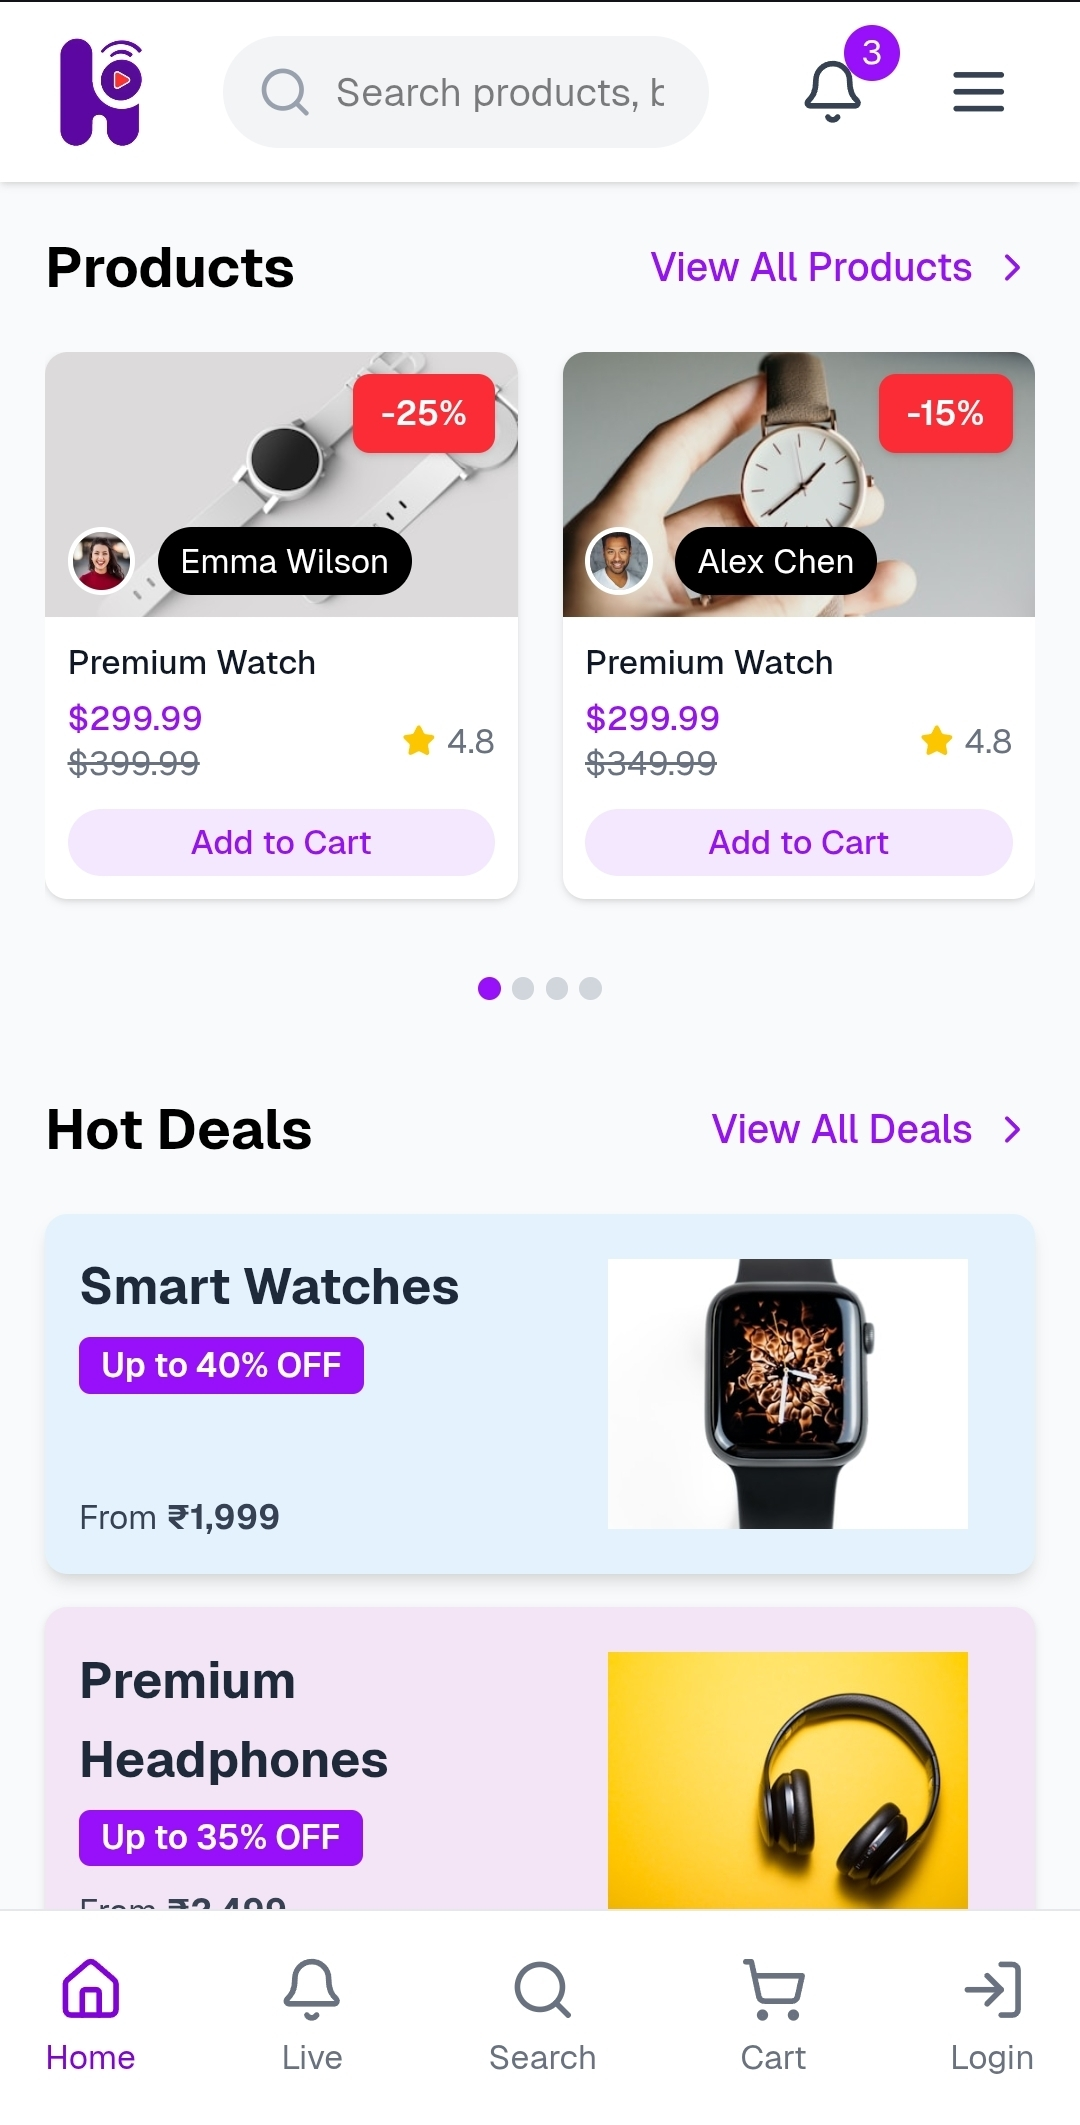
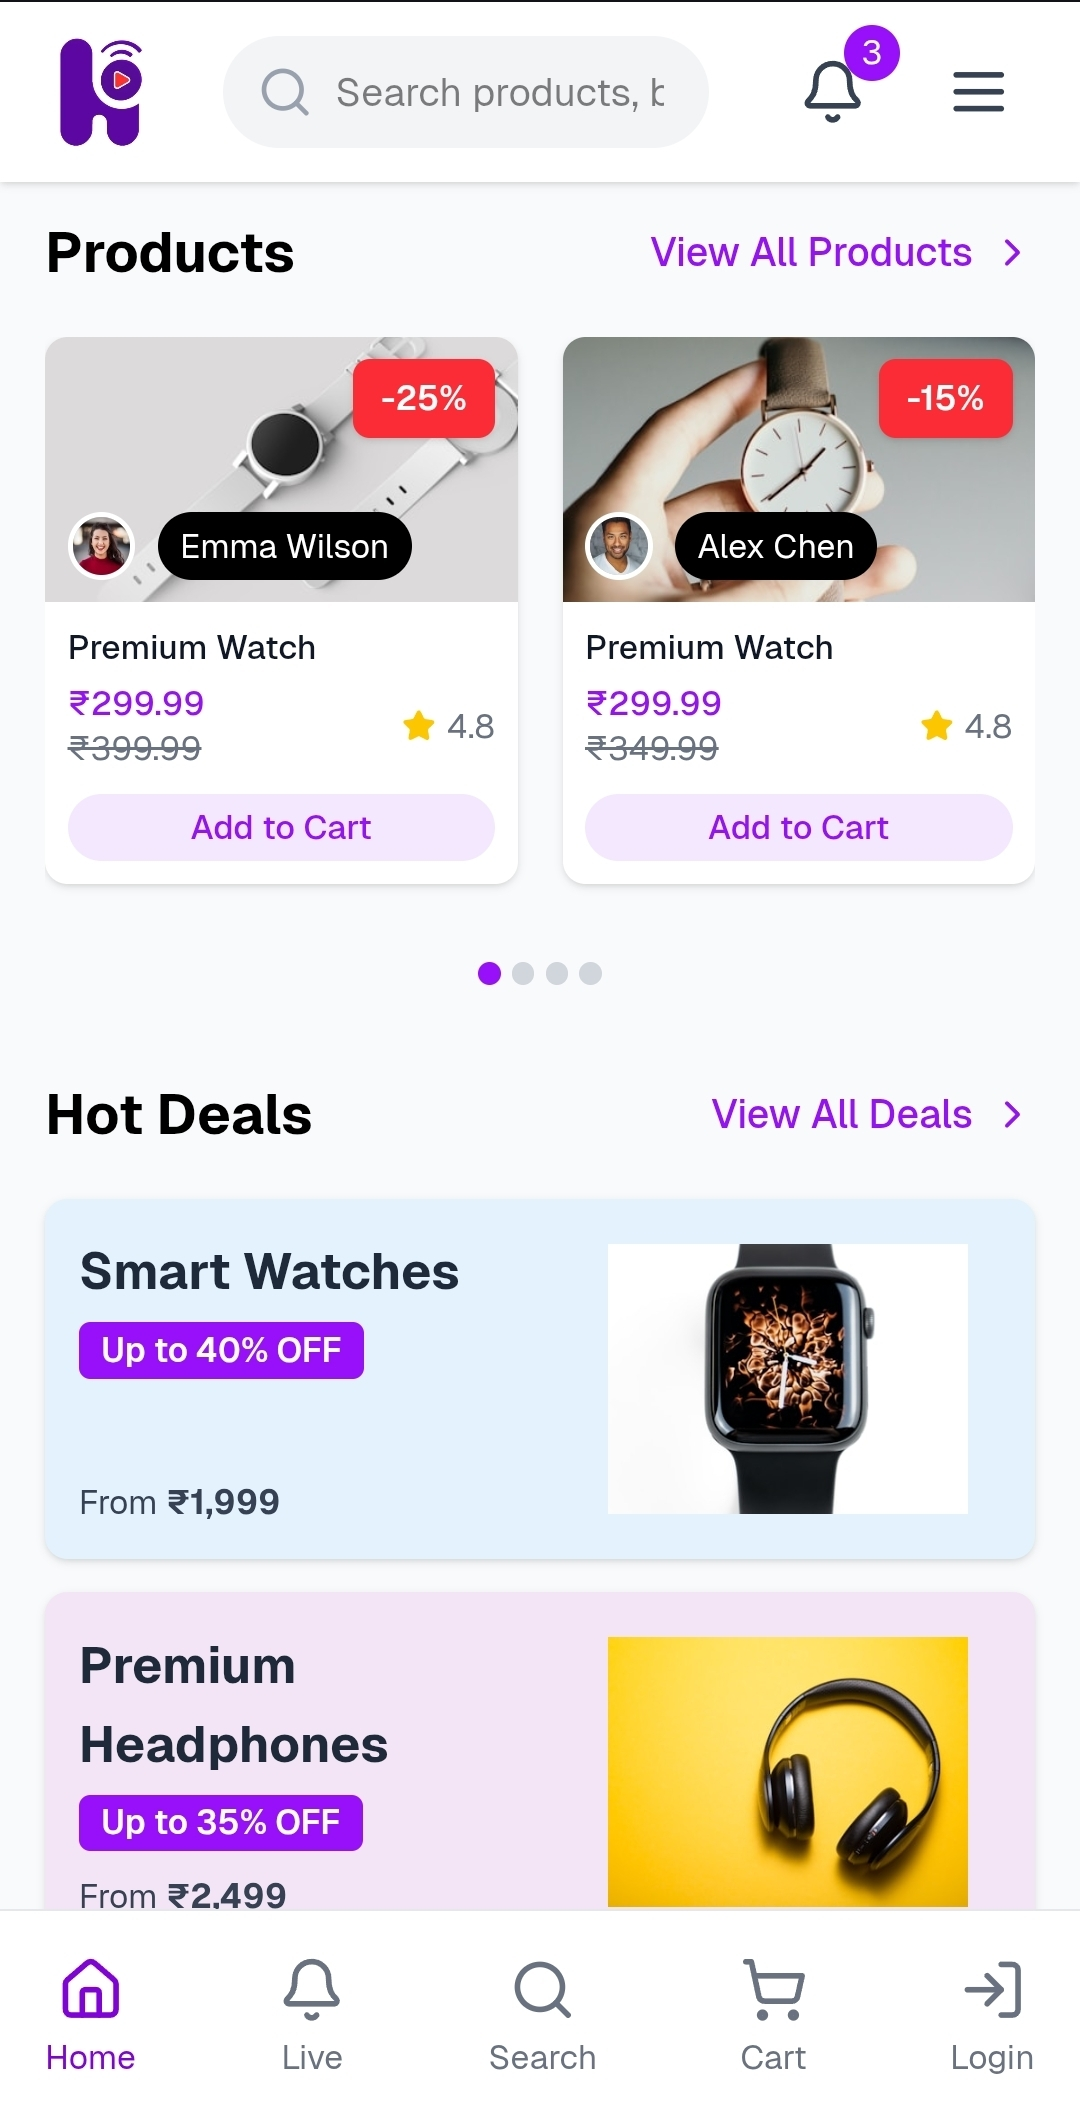
updates

diff --git a/halohunt_web/src/app/checkout/page.js b/halohunt_web/src/app/checkout/page.js
@@ -68,7 +68,7 @@ const CartItem = ({ item }) => {
       <div className="flex-1 min-w-0">
         <h3 className="text-sm font-medium text-gray-900 truncate">{item.name}</h3>
         <div className="mt-2 flex items-center justify-between">
-          <span className="text-sm font-medium text-purple-600">${item.price}</span>
+          <span className="text-sm font-medium text-purple-600">₹{item.price}</span>
           <span className="text-sm text-gray-500">Qty: {item.quantity}</span>
         </div>
       </div>
@@ -226,7 +226,7 @@ export default function CheckoutPage() {
                   <Package className="w-5 h-5 text-purple-600" />
                   <h2 className="font-medium">Order Summary ({cartItems.length} items)</h2>
                 </div>
-                <span className="text-sm font-medium text-purple-600">${subtotal.toFixed(2)}</span>
+                <span className="text-sm font-medium text-purple-600">₹{subtotal.toFixed(2)}</span>
               </div>
               <div className="p-6">
                 <div className="divide-y divide-gray-200">
@@ -271,31 +271,31 @@ export default function CheckoutPage() {
               <div className="space-y-3 text-sm">
                 <div className="flex justify-between">
                   <span className="text-gray-500">Subtotal</span>
-                  <span>${subtotal.toFixed(2)}</span>
+                  <span>₹{subtotal.toFixed(2)}</span>
                 </div>
                 <div className="flex justify-between">
                   <span className="text-gray-500">Shipping</span>
-                  <span>{shipping === 0 ? 'Free' : `$${shipping.toFixed(2)}`}</span>
+                  <span>{shipping === 0 ? 'Free' : `₹${shipping.toFixed(2)}`}</span>
                 </div>
                 <div className="flex justify-between">
                   <span className="text-gray-500">GST (18%)</span>
-                  <span>${gst.toFixed(2)}</span>
+                  <span>₹{gst.toFixed(2)}</span>
                 </div>
                 {codCharges > 0 && (
                   <div className="flex justify-between text-orange-600">
                     <span>COD Charges</span>
-                    <span>+${codCharges.toFixed(2)}</span>
+                    <span>+₹{codCharges.toFixed(2)}</span>
                   </div>
                 )}
                 {payNowDiscount < 0 && (
                   <div className="flex justify-between text-green-600">
                     <span>Pay Now Discount</span>
-                    <span>${payNowDiscount.toFixed(2)}</span>
+                    <span>₹{payNowDiscount.toFixed(2)}</span>
                   </div>
                 )}
                 <div className="border-t border-gray-200 pt-3 flex justify-between font-medium">
                   <span>Total</span>
-                  <span>${total.toFixed(2)}</span>
+                  <span>₹{total.toFixed(2)}</span>
                 </div>
               </div>
 

diff --git a/halohunt_web/src/app/landing/page.js b/halohunt_web/src/app/landing/page.js
@@ -6,7 +6,7 @@ const LiveShoppingUI = () => {
     {
       id: 1,
       name: "Premium Watch",
-      price: "$299.99",
+      price: "₹299.99",
       seller: "John Smith",
       rating: 4.8,
       image: "https://images.unsplash.com/photo-1523275335684-37898b6baf30?w=400&h=300&fit=crop&crop=center",
@@ -15,7 +15,7 @@ const LiveShoppingUI = () => {
     {
       id: 2,
       name: "Premium Watch",
-      price: "$299.99",
+      price: "₹299.99",
       seller: "John Smith",
       rating: 4.8,
       image: "https://images.unsplash.com/photo-1524592094714-0f0654e20314?w=400&h=300&fit=crop&crop=center",
@@ -24,7 +24,7 @@ const LiveShoppingUI = () => {
     {
       id: 3,
       name: "Premium Watch",
-      price: "$299.99",
+      price: "₹299.99",
       seller: "John Smith",
       rating: 4.8,
       image: "https://images.unsplash.com/photo-1606800052052-a08af7148866?w=400&h=300&fit=crop&crop=center",
@@ -33,7 +33,7 @@ const LiveShoppingUI = () => {
     {
       id: 4,
       name: "Premium Watch",
-      price: "$299.99",
+      price: "₹299.99",
       seller: "John Smith",
       rating: 4.8,
       image: "https://images.unsplash.com/photo-1578662996442-48f60103fc96?w=400&h=300&fit=crop&crop=center",

diff --git a/halohunt_web/src/app/search/page.js b/halohunt_web/src/app/search/page.js
@@ -203,7 +203,7 @@ const SearchPage = () => {
     {
       id: 1,
       name: "Premium Watch",
-      price: "$299.99",
+      price: "₹299.99",
       seller: "John Smith",
       rating: 4.8,
       image: "https://images.unsplash.com/photo-1523275335684-37898b6baf30?w=400&h=300&fit=crop&crop=center",
@@ -216,7 +216,7 @@ const SearchPage = () => {
     {
       id: 2,
       name: "Premium Watch",
-      price: "$299.99",
+      price: "₹299.99",
       seller: "John Smith",
       rating: 4.8,
       image: "https://images.unsplash.com/photo-1524592094714-0f0654e20314?w=400&h=300&fit=crop&crop=center",
@@ -229,7 +229,7 @@ const SearchPage = () => {
     {
       id: 3,
       name: "Premium Watch",
-      price: "$299.99",
+      price: "₹299.99",
       seller: "John Smith",
       rating: 4.8,
       image: "https://images.unsplash.com/photo-1606800052052-a08af7148866?w=400&h=300&fit=crop&crop=center",
@@ -242,7 +242,7 @@ const SearchPage = () => {
     {
       id: 4,
       name: "Premium Watch",
-      price: "$299.99",
+      price: "₹299.99",
       seller: "John Smith",
       rating: 4.8,
       image: "https://images.unsplash.com/photo-1578662996442-48f60103fc96?w=400&h=300&fit=crop&crop=center",

diff --git a/halohunt_web/src/app/page.js b/halohunt_web/src/app/page.js
@@ -70,8 +70,8 @@ const LiveShoppingUI = () => {
     {
       id: 1,
       name: "Premium Watch",
-      price: "$299.99",
-      originalPrice: "$399.99",
+      price: "₹299.99",
+      originalPrice: "₹399.99",
       discount: "25%",
       seller: "John Smith",
       rating: 4.8,
@@ -85,8 +85,8 @@ const LiveShoppingUI = () => {
     {
       id: 2,
       name: "Premium Watch",
-      price: "$299.99",
-      originalPrice: "$349.99",
+      price: "₹299.99",
+      originalPrice: "₹349.99",
       discount: "15%",
       seller: "John Smith",
       rating: 4.8,
@@ -100,8 +100,8 @@ const LiveShoppingUI = () => {
     {
       id: 3,
       name: "Premium Watch",
-      price: "$299.99",
-      originalPrice: "$399.99",
+      price: "₹299.99",
+      originalPrice: "₹399.99",
       discount: "25%",
       seller: "John Smith",
       rating: 4.8,
@@ -115,8 +115,8 @@ const LiveShoppingUI = () => {
     {
       id: 4,
       name: "Premium Watch",
-      price: "$299.99",
-      originalPrice: "$349.99",
+      price: "₹299.99",
+      originalPrice: "₹349.99",
       discount: "15%",
       seller: "John Smith",
       rating: 4.8,

diff --git a/halohunt_web/src/app/live/view/[id]/page.js b/halohunt_web/src/app/live/view/[id]/page.js
@@ -583,7 +583,7 @@ export default function LiveStreamPage() {
                     <div>
                       <p className="text-white text-xs font-medium">{product.name}</p>
                       <p className="text-purple-300 text-xs font-bold">
-                        ${discountedPrice ? discountedPrice.toFixed(2) : (product.price?.toFixed(2) || '0.00')}
+                        ₹{discountedPrice ? discountedPrice.toFixed(2) : (product.price?.toFixed(2) || '0.00')}
                       </p>
                     </div>
                   </div>
@@ -664,7 +664,7 @@ export default function LiveStreamPage() {
                         <div>
                           <p className="text-white text-xs font-medium">{product.name}</p>
                           <p className="text-purple-300 text-xs font-bold">
-                            ${discountedPrice ? discountedPrice.toFixed(2) : (product.price?.toFixed(2) || '0.00')}
+                            ₹{discountedPrice ? discountedPrice.toFixed(2) : (product.price?.toFixed(2) || '0.00')}
                           </p>
                         </div>
                       </div>

diff --git a/halohunt_web/src/app/live/host/[id]/page.js b/halohunt_web/src/app/live/host/[id]/page.js
@@ -798,7 +798,7 @@ export default function HostPage() {
                     <div>
                       <p className="text-white text-xs font-medium">{product.name}</p>
                       <p className="text-purple-300 text-xs font-bold">
-                        ${discountedPrice ? discountedPrice.toFixed(2) : (product.price?.toFixed(2) || '0.00')}
+                        ₹{discountedPrice ? discountedPrice.toFixed(2) : (product.price?.toFixed(2) || '0.00')}
                       </p>
                     </div>
                   </div>
@@ -897,7 +897,7 @@ export default function HostPage() {
                         <div>
                           <p className="text-white text-xs font-medium">{product.name}</p>
                           <p className="text-purple-300 text-xs font-bold">
-                            ${discountedPrice ? discountedPrice.toFixed(2) : (product.price?.toFixed(2) || '0.00')}
+                            ₹{discountedPrice ? discountedPrice.toFixed(2) : (product.price?.toFixed(2) || '0.00')}
                           </p>
                         </div>
                       </div>
